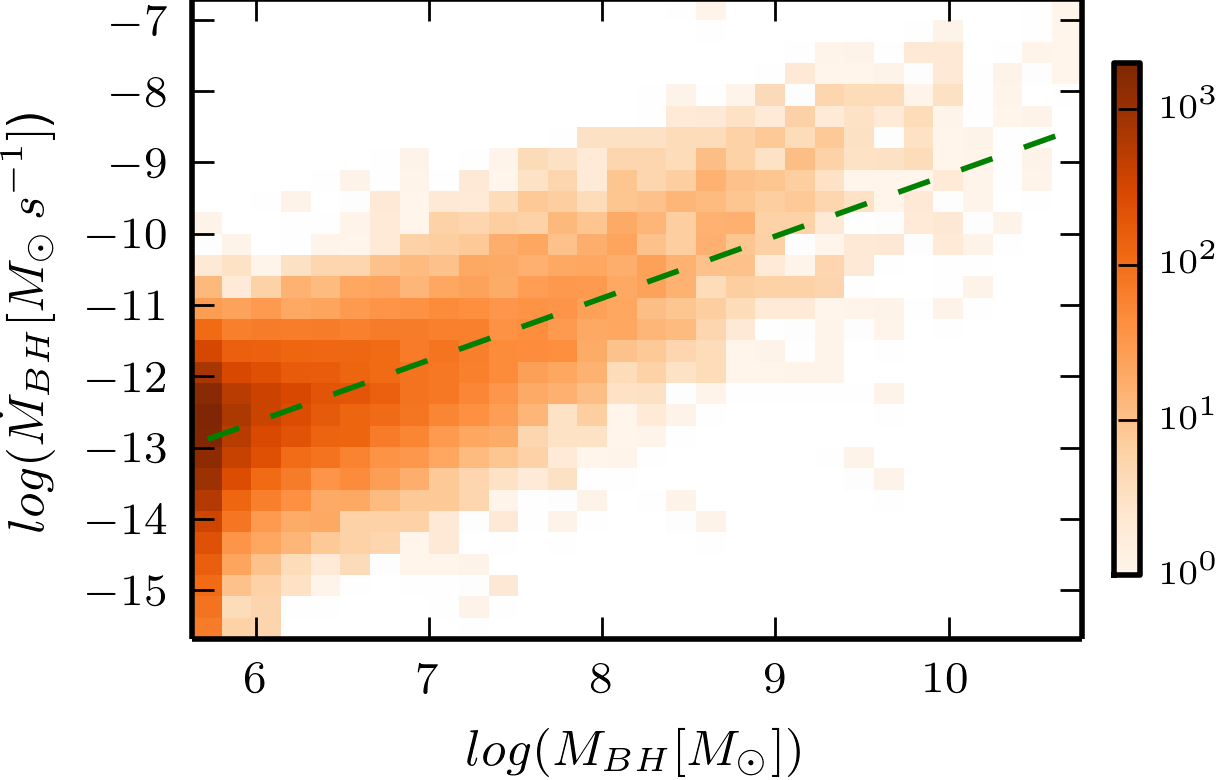
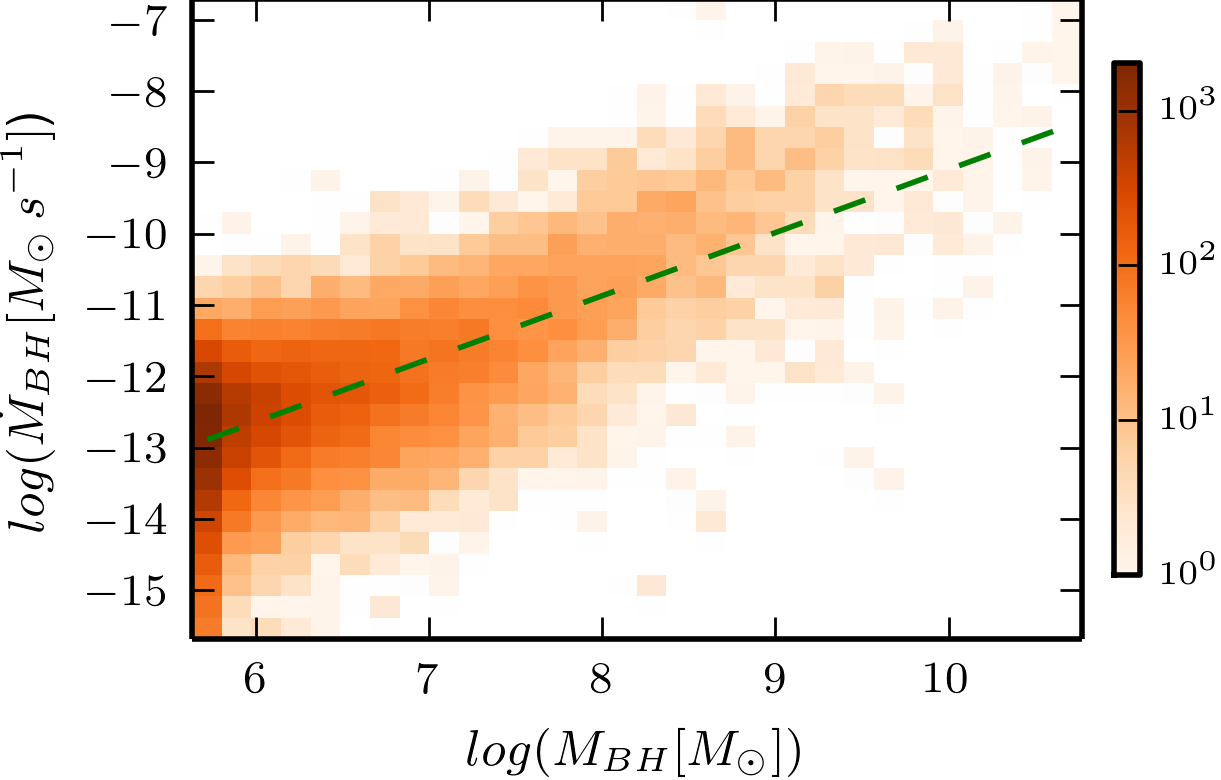
Fixed up Mdot_vs_Mgas figure.

diff --git a/makePlots.py b/makePlots.py
@@ -44,11 +44,11 @@ basedir = 'Illustris-3'
 snapid = 135
 catalog = readsubfHDF5.subfind_catalog(basedir,snapid)
 
-cond = (catalog.GroupBHMass != 0) * (catalog.GroupBHMdot > 0)
+goodMassMask = (catalog.GroupBHMass > 0) * (catalog.GroupBHMdot > 0)
 
 # Convert to physical units (M_sun, M_sun/yr)
-bm_phys = 4.3e10 * catalog.GroupBHMass[cond]
-bmdot_phys = 9.72e-7 * catalog.GroupBHMdot[cond]
+bm_phys = 4.3e10 * catalog.GroupBHMass[goodMassMask]
+bmdot_phys = 9.72e-7 * catalog.GroupBHMdot[goodMassMask]
 
 fig = make_fig()
 x = np.log10(bm_phys)
@@ -80,8 +80,11 @@ save_fig('Figures/Illustris2_bhpop_mdot.png')
 
 print "m2 = %.3f" % m2
 
-bmdot_phys = bmdot_phys[ np.log10(bmdot_phys) > m2]
-bm_phys = bm_phys[ np.log10(bmdot_phys) > m2 ]
+# Make a cutoff at the mean of the second component
+goodFitMassMask = np.log10(bmdot_phys) > m2
+
+bmdot_phys = bmdot_phys[goodFitMassMask]
+bm_phys = bm_phys[goodFitMassMask]
 p, residual, rank, singular_values, rcond = np.polyfit( np.log10(bm_phys), np.log10(bmdot_phys), 1, full = True )
 relation_params = p
 
@@ -99,6 +102,25 @@ cbar.ax.tick_params(labelsize=6)
 plt.ylabel(r'$log(\dot{M}_{BH} [M_{\odot}\,s^{-1}]$)', fontsize=axisLabelTextSize)
 plt.xlabel(r'$log(M_{BH} [M_{\odot}])$', fontsize=axisLabelTextSize)
 save_fig('Figures/Illustris2_bhpop_hist2d.png')
+
+
+# Plot M_BH vs M_gas for each subhalo
+groupGasMass = catalog.GroupMassType[:,0]
+groupGasMass = groupGasMass[goodMassMask]
+groupGasMass = 1.26e6 * groupGasMass[goodFitMassMask]
+
+fig = make_fig()
+x = np.log10(groupGasMass)
+y = np.log10(bmdot_phys)
+z = np.log10(bm_phys)
+plt.scatter(x,y, c=z, alpha=0.5, marker='.', linewidths=0, cmap='hsv')
+cbar = plt.colorbar(shrink=0.8, pad=0.03)
+cbar.ax.tick_params(labelsize=6)
+plt.xlim(x.min(),x.max())
+plt.ylim(y.min(),y.max())
+plt.ylabel(r'$\log(\dot{M}_{BH} [M_{\odot}\,s^{-1}])$',fontsize=axisLabelTextSize)
+plt.xlabel(r'$\log(M_{gas} [M_{\odot}])$',fontsize=axisLabelTextSize)
+save_fig('Figures/Mdot_vs_Mgas.png')
 
 ## finding q and K using convergence
 # General idea:

diff --git a/discussion.tex b/discussion.tex
@@ -36,13 +36,15 @@ between mass and $\dot{M}$ known either empirically or from theory?}
 
 \textbf{Talk about Figure 5.}
 
-\begin{figure}
+\begin{figure}[H]
 \begin{centering}
-\includegraphics[scale=0.75]{Figures/Mdot_vs_Mgas}
+\includegraphics{Figures/Mdot_vs_Mgas}
 \par\end{centering}
 
-\protect\caption{\label{fig:Mdot_vs_Mgas}Black hole accretion rate of as a function
+\textbf{\protect\caption{\label{fig:Mdot_vs_Mgas}Black hole accretion rate of as a function
 of the total gas mass in each subhalo for our sample. Colors correspond
 to black hole mass. All masses are in units of $\log\left(M_{\odot}\right)$
 and the accretion rate is in units $\log\left(M_{\odot}yr^{-1}\right)$.}
+}
+
 \end{figure}
